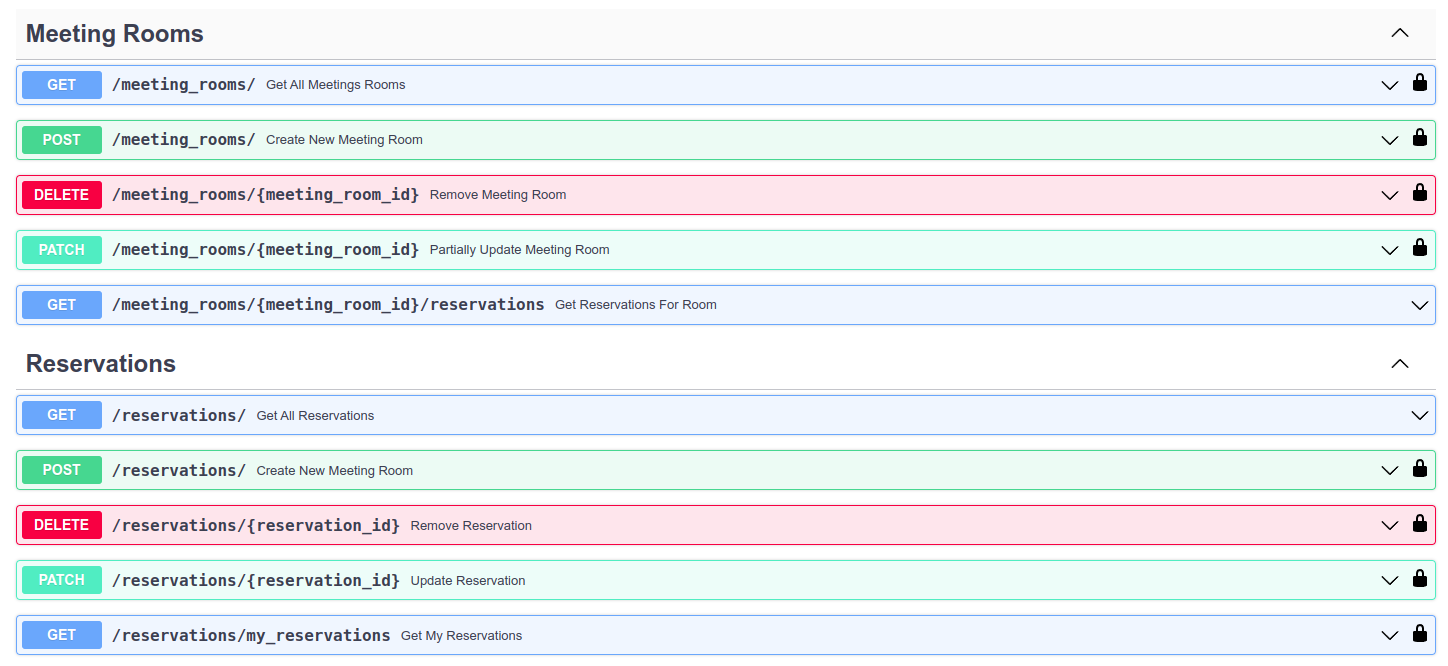
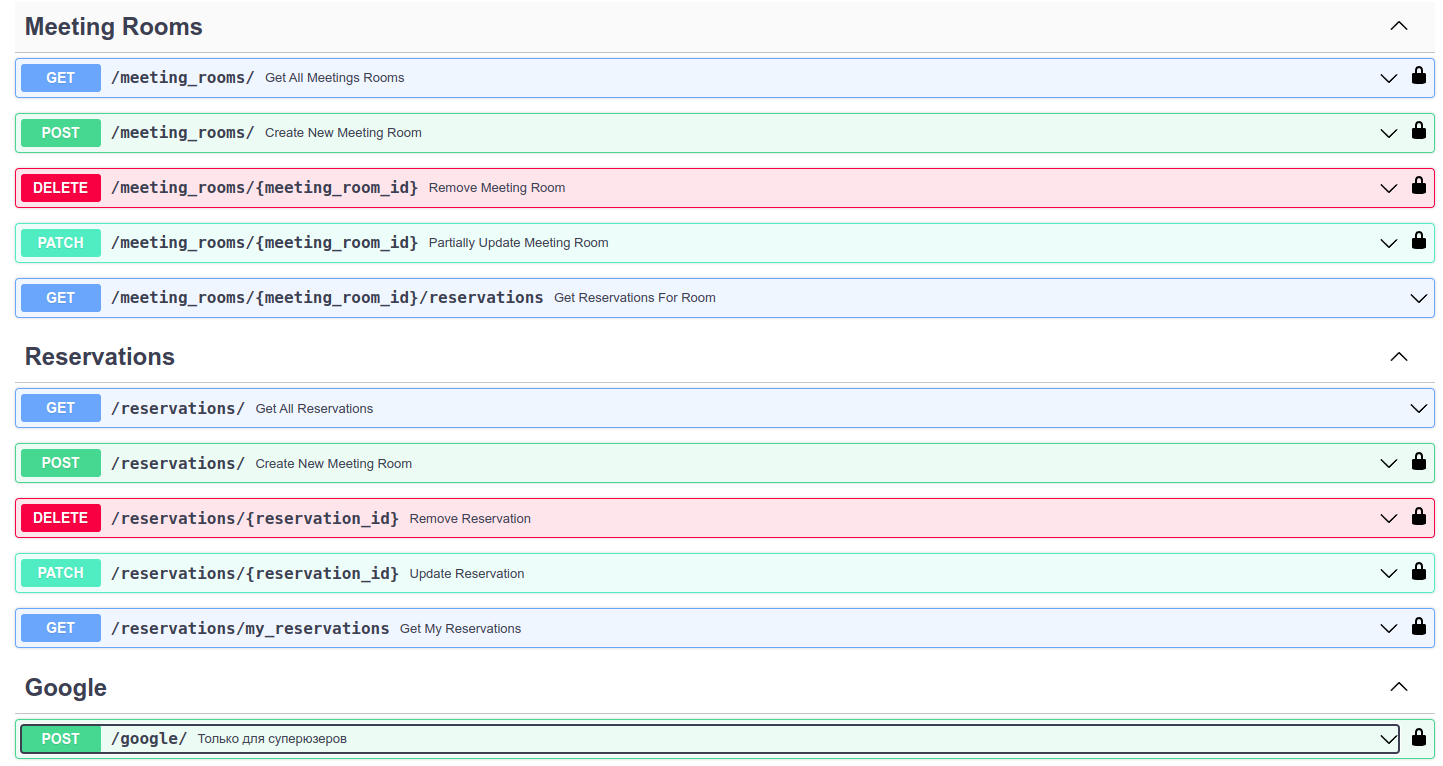
feat: Integration with google cloud added

Changed region(s): [[0.0, 0.03, 0.9979, 0.991]]

diff --git a/app/services/google_api.py b/app/services/google_api.py
@@ -1,0 +1,71 @@
+from datetime import datetime
+
+from aiogoogle import Aiogoogle
+
+from app.core.config import settings
+
+FORMAT = "%Y/%m/%d %H:%M:%S"
+
+
+async def spreadsheets_create(wrapper_services: Aiogoogle) -> str:
+    now_date_time = datetime.now().strftime(FORMAT)
+    service = await wrapper_services.discover('sheets', 'v4')
+    spreadsheet_body = {
+        'properties': {'title': f'Отчет на {now_date_time}',
+                       'locale': 'ru_RU'},
+        'sheets': [{'properties': {'sheetType': 'GRID',
+                                   'sheetId': 0,
+                                   'title': 'Лист1',
+                                   'gridProperties': {'rowCount': 100,
+                                                      'columnCount': 11}}}]
+    }
+    response = await wrapper_services.as_service_account(
+        service.spreadsheets.create(json=spreadsheet_body)
+    )
+    return response['spreadsheetId']
+
+
+async def set_user_permissions(
+        spreadsheetid: str,
+        wrapper_services: Aiogoogle
+) -> None:
+    permissions_body = {'type': 'user',
+                        'role': 'writer',
+                        'emailAddress': settings.email}
+    service = await wrapper_services.discover('drive', 'v3')
+    await wrapper_services.as_service_account(
+        service.permissions.create(
+            fileId=spreadsheetid,
+            json=permissions_body,
+            fields="id"
+        )
+    )
+
+
+async def spreadsheets_update_value(
+        spreadsheetid: str,
+        reservations: list,
+        wrapper_services: Aiogoogle
+) -> None:
+    now_date_time = datetime.now().strftime(FORMAT)
+    service = await wrapper_services.discover('sheets', 'v4')
+    table_values = [
+        ['Отчет от', now_date_time],
+        ['Количество регистраций переговорок'],
+        ['ID переговорки', 'Кол-во бронирований']
+    ]
+    for res in reservations:
+        new_row = [str(res['meetingroom_id']), str(res['count'])]
+        table_values.append(new_row)
+    update_body = {
+        'majorDimension': 'ROWS',
+        'values': table_values
+    }
+    await wrapper_services.as_service_account(
+        service.spreadsheets.values.update(
+            spreadsheetId=spreadsheetid,
+            range='A1:E30',
+            valueInputOption='USER_ENTERED',
+            json=update_body
+        )
+    )

diff --git a/app/api/endpoints/google_api.py b/app/api/endpoints/google_api.py
@@ -1,0 +1,37 @@
+from datetime import datetime
+
+from aiogoogle import Aiogoogle
+from fastapi import APIRouter, Depends
+from sqlalchemy.ext.asyncio import AsyncSession
+
+from app.core.db import get_async_session
+from app.core.google_client import get_service
+from app.core.user import current_superuser
+from app.crud.reservation import reservation_crud
+from app.services.google_api import (set_user_permissions, spreadsheets_create,
+                                     spreadsheets_update_value)
+
+router = APIRouter()
+
+
+@router.post(
+    '/',
+    response_model=list[dict[str, int]],
+    dependencies=[Depends(current_superuser)],
+    summary='Только для суперюзеров'
+)
+async def get_report(
+        from_reserve: datetime,
+        to_reserve: datetime,
+        session: AsyncSession = Depends(get_async_session),
+        wrapper_services: Aiogoogle = Depends(get_service)
+):
+    reservations = await reservation_crud.get_count_res_at_the_same_time(
+        from_reserve, to_reserve, session
+    )
+    spreadsheet_id = await spreadsheets_create(wrapper_services)
+    await set_user_permissions(spreadsheet_id, wrapper_services)
+    await spreadsheets_update_value(spreadsheet_id,
+                                    reservations,
+                                    wrapper_services)
+    return reservations

diff --git a/app/crud/reservation.py b/app/crud/reservation.py
@@ -1,7 +1,7 @@
 from datetime import datetime
 from typing import Optional
 
-from sqlalchemy import and_, select
+from sqlalchemy import and_, func, select
 from sqlalchemy.ext.asyncio import AsyncSession
 
 from app.crud.base import CRUDBase
@@ -59,6 +59,24 @@ class CRUDReservation(CRUDBase):
             )
         )
         return reservations.scalars().all()
+
+    async def get_count_res_at_the_same_time(
+            self,
+            from_reserve: datetime,
+            to_reserve: datetime,
+            session: AsyncSession,
+    ) -> list[dict[str, int]]:
+        reservations = await session.execute(
+            select(
+                Reservation.meetingroom_id,
+                func.count(Reservation.meetingroom_id)
+            ).where(
+                Reservation.from_reserve >= from_reserve,
+                Reservation.to_reserve <= to_reserve
+            ).group_by(Reservation.meetingroom_id)
+        )
+        return [{'meetingroom_id': k, 'count': v}
+                for k, v in reservations.all()]
 
 
 reservation_crud = CRUDReservation(Reservation)

diff --git a/app/core/google_client.py b/app/core/google_client.py
@@ -1,0 +1,29 @@
+from aiogoogle import Aiogoogle
+from aiogoogle.auth.creds import ServiceAccountCreds
+
+from app.core.config import settings
+
+SCOPES = [
+    'https://www.googleapis.com/auth/spreadsheets',
+    'https://www.googleapis.com/auth/drive'
+]
+
+INFO = {
+    'type': settings.type,
+    'project_id': settings.project_id,
+    'private_key_id': settings.private_key_id,
+    'private_key': settings.private_key,
+    'client_email': settings.client_email,
+    'client_id': settings.client_id,
+    'auth_uri': settings.auth_uri,
+    'token_uri': settings.token_uri,
+    'auth_provider_x509_cert_url': settings.auth_provider_x509_cert_url,
+    'client_x509_cert_url': settings.client_x509_cert_url
+}
+
+cred = ServiceAccountCreds(scopes=SCOPES, **INFO)
+
+
+async def get_service():
+    async with Aiogoogle(service_account_creds=cred) as aiogoogle:
+        yield aiogoogle

diff --git a/app/core/config.py b/app/core/config.py
@@ -10,6 +10,17 @@ class Settings(BaseSettings):
     secret: str = 'SECRET'
     first_superuser_email: Optional[EmailStr] = None
     first_superuser_password: Optional[str] = None
+    type: Optional[str] = None
+    project_id: Optional[str] = None
+    private_key_id: Optional[str] = None
+    private_key: Optional[str] = None
+    client_email: Optional[str] = None
+    client_id: Optional[str] = None
+    auth_uri: Optional[str] = None
+    token_uri: Optional[str] = None
+    auth_provider_x509_cert_url: Optional[str] = None
+    client_x509_cert_url: Optional[str] = None
+    email: Optional[str] = None
 
     class Config:
         env_file = '.env'

diff --git a/app/api/routers.py b/app/api/routers.py
@@ -1,7 +1,7 @@
 from fastapi import APIRouter
 
-from app.api.endpoints import (meeting_room_router, reservation_router,
-                               user_router)
+from app.api.endpoints import (google_api_router, meeting_room_router,
+                               reservation_router, user_router)
 
 main_router = APIRouter()
 main_router.include_router(
@@ -9,5 +9,8 @@ main_router.include_router(
 )
 main_router.include_router(
     reservation_router, prefix='/reservations', tags=['Reservations']
+)
+main_router.include_router(
+    google_api_router, prefix='/google', tags=['Google']
 )
 main_router.include_router(user_router)

diff --git a/app/api/endpoints/__init__.py b/app/api/endpoints/__init__.py
@@ -1,3 +1,4 @@
+from .google_api import router as google_api_router  # noqa
 from .meeting_room import router as meeting_room_router  # noqa
 from .reservation import router as reservation_router  # noqa
 from .user import router as user_router  # noqa
